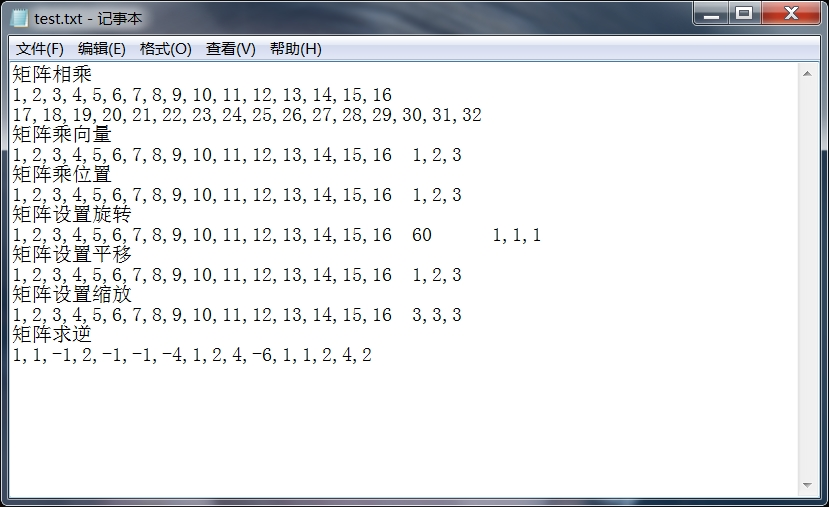
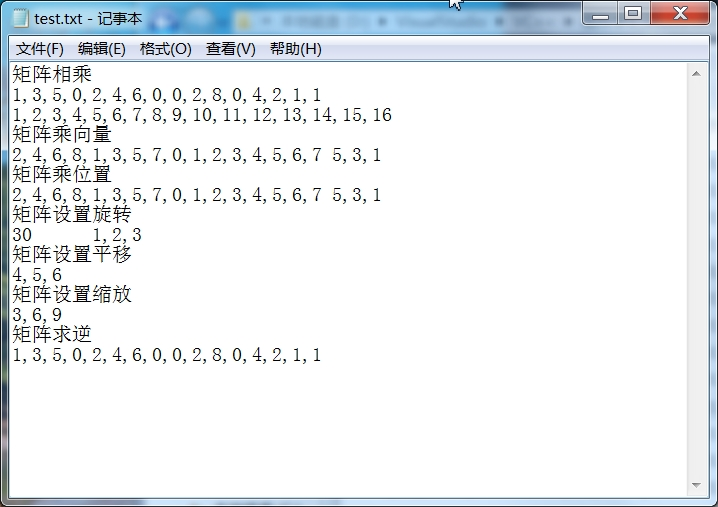
fix format of test.input

Changed region(s): [[0.0, 0.0, 1.0, 1.0], [0.5822, 0.4438, 0.6128, 0.4734]]

diff --git a/Computer graphics and visual computing/3/walkInGalaxy.cpp b/Computer graphics and visual computing/3/walkInGalaxy.cpp
@@ -421,8 +421,7 @@ void compute() {
 				getline(in, line);
 				out << line;
 				float seta;
-				readMatrix(cma, line);
-				line = line.substr(line.find("\t") + 1);
+				cma.Identity();
 				sscanf_s(line.c_str(), "%f", &seta);
 				line = line.substr(line.find("\t") + 1);
 				readVector(cva, line);
@@ -433,8 +432,8 @@ void compute() {
 				out << line << endl;
 				getline(in, line);
 				out << line;
-				readMatrix(cma, line);
-				readVector(cva, line.substr(line.find("\t")));
+				cma.Identity();
+				readVector(cva, line);
 				cmb = cma.SetTrans(cva);
 				out << "\t" << cmb.toString() << endl;
 			}
@@ -442,8 +441,7 @@ void compute() {
 				out << line << endl;
 				getline(in, line);
 				out << line;
-				readMatrix(cma, line);
-				line = line.substr(line.find("\t") + 1);
+				cma.Identity();
 				readVector(cva, line);
 				cmb = cma.SetScale(cva);
 				out << "\t" << cmb.toString() << endl;
